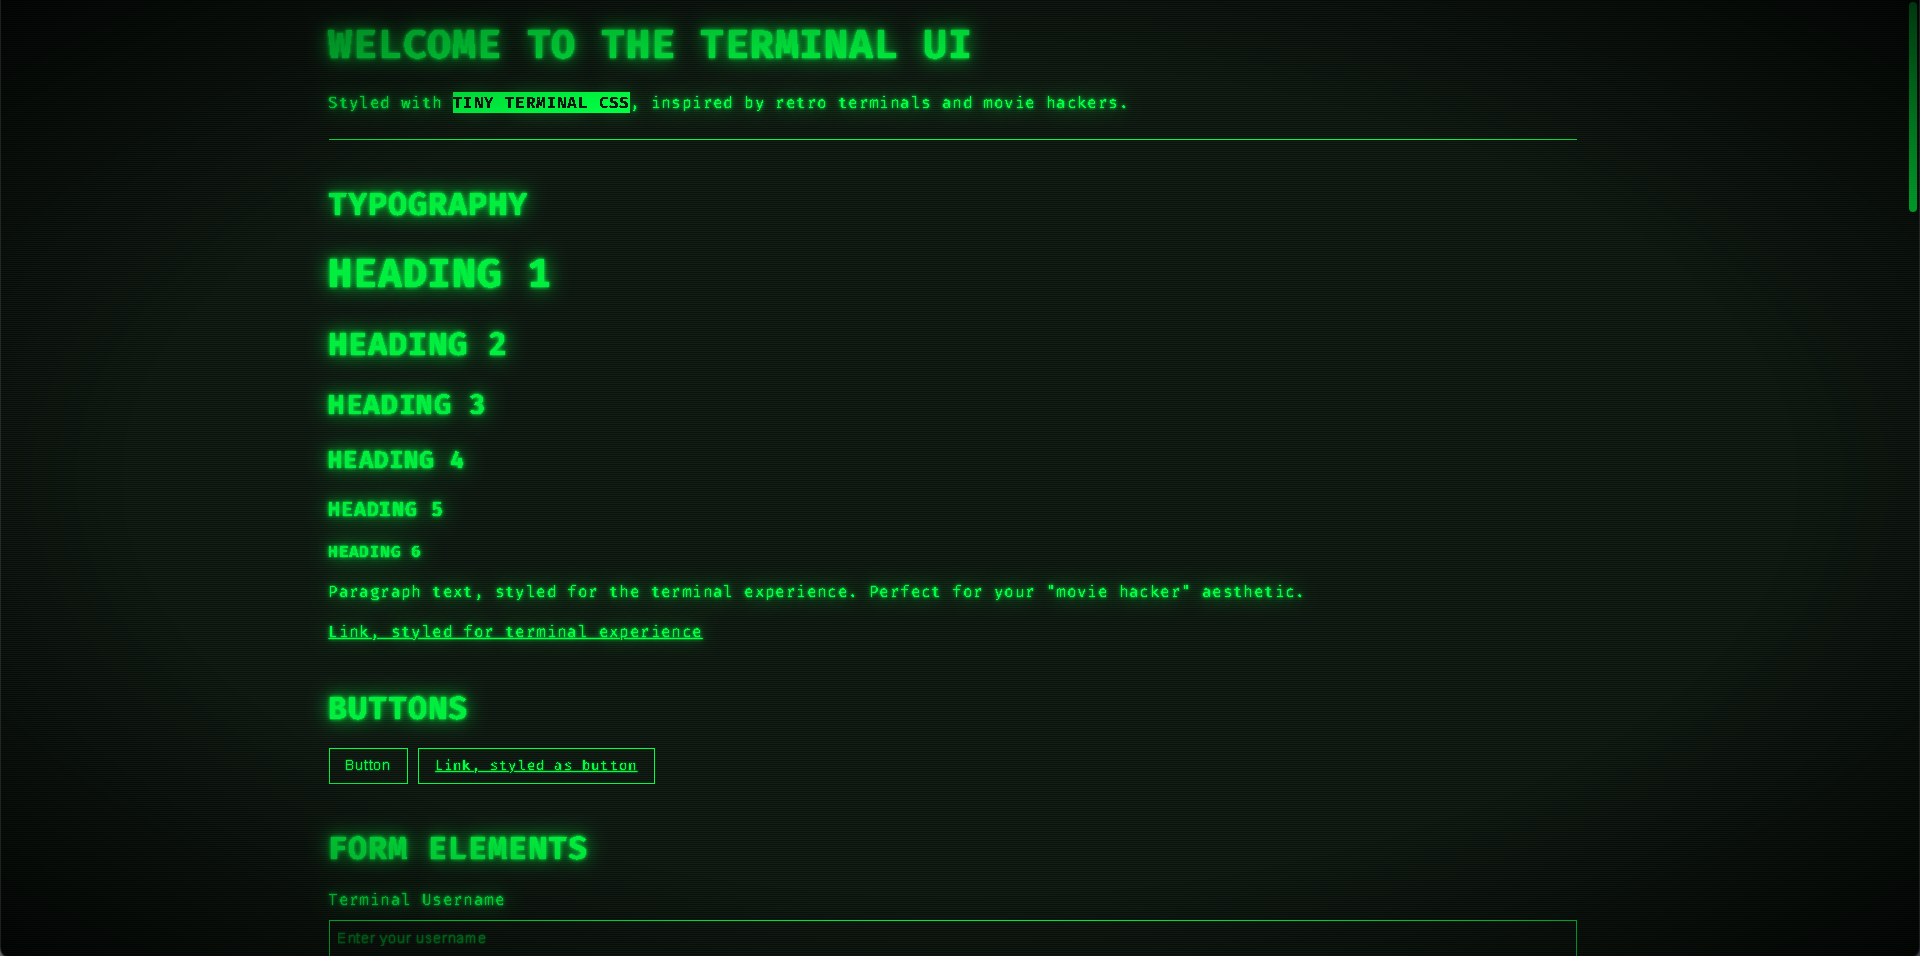
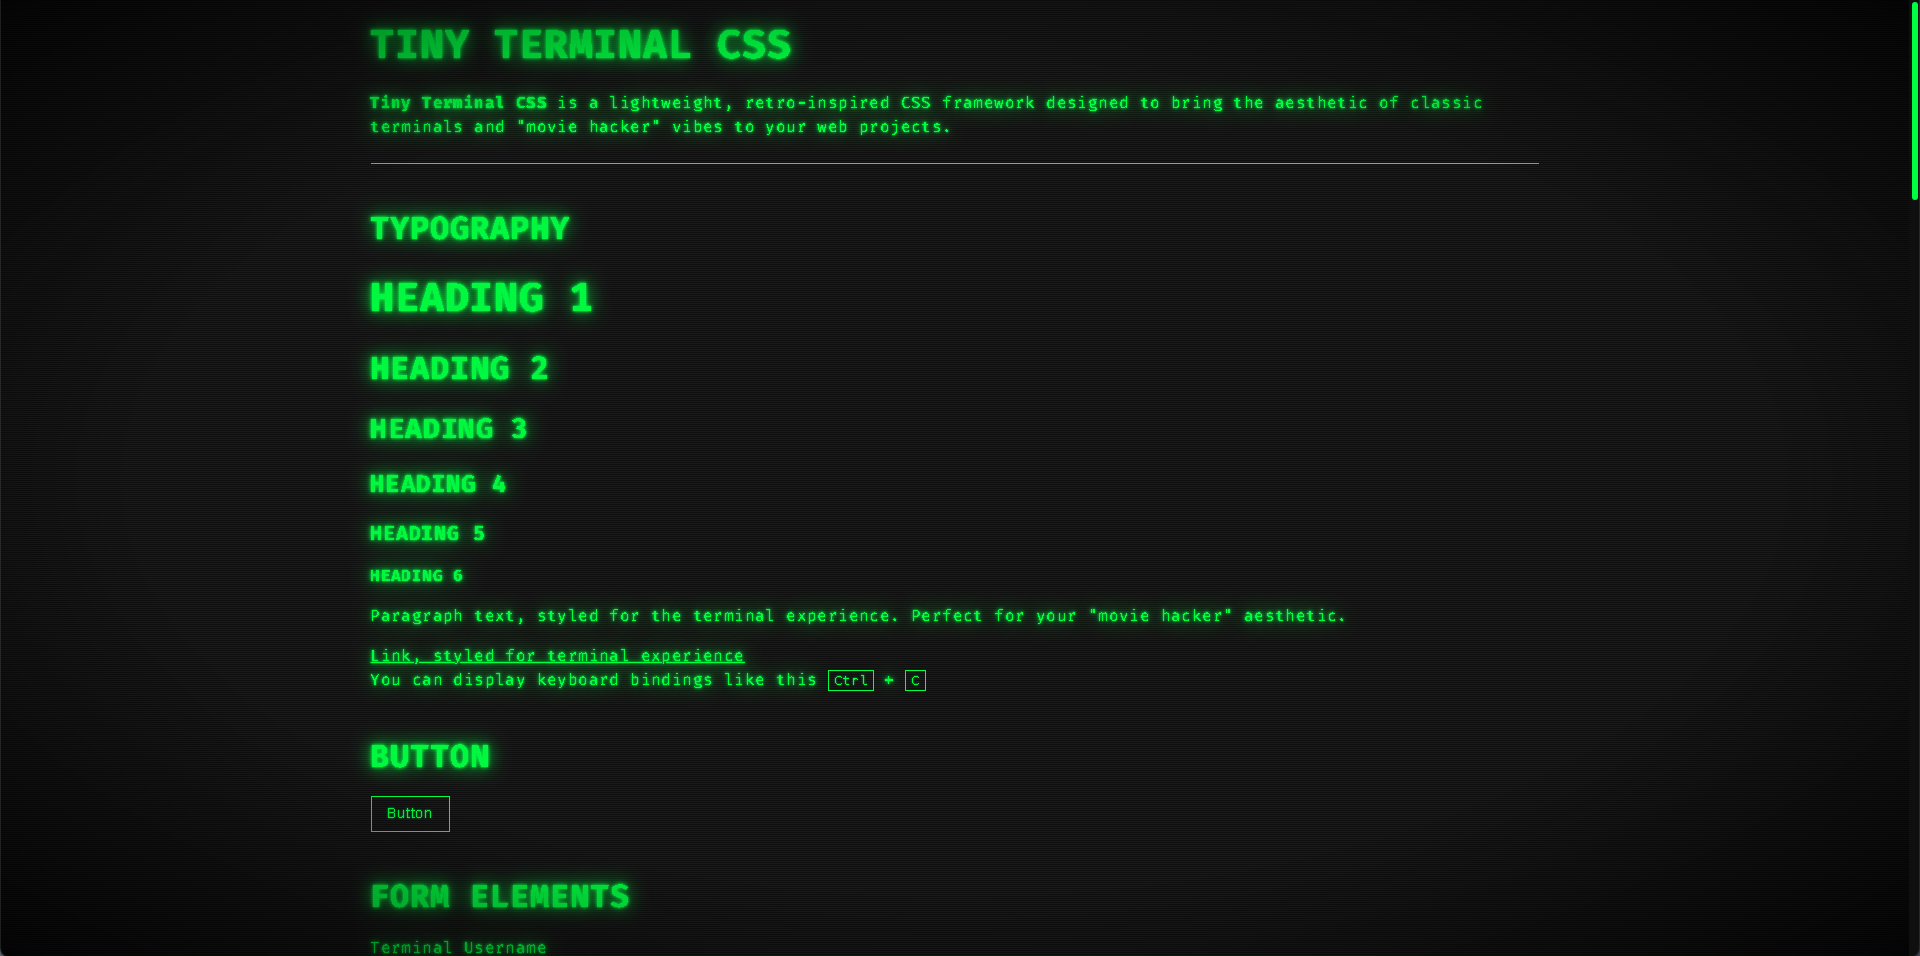
Remove custom classes

Changed region(s): [[0.1562, 0.182, 0.7188, 1.0], [0.1562, 0.0, 0.7812, 0.1517], [0.9688, 0.0, 1.0, 0.2123]]

diff --git a/tiny-terminal.css b/tiny-terminal.css
@@ -9,7 +9,7 @@
     --text-color: var(--primary-color);
     --grid-gap: 2.5rem;
     --grid-padding: 1rem;
-    --max-width: 1280px;
+    --max-width: 1200px;
 }
 
 * {
@@ -39,10 +39,6 @@
 html {
     scrollbar-color: var(--primary-color) var(--background-color); 
     scrollbar-width: thin; 
-}
-
-/* Terminal UI Styles */
-html, body {
     background: var(--background-color);
     color: var(--text-color);
     font-family: var(--font-family);
@@ -60,7 +56,7 @@ html, body {
 }
 
 /* Vignette for Screen Curve */
-body::before {
+html::before {
     content: "";
     position: fixed;
     top: 0; left: 0; right: 0; bottom: 0;
@@ -70,7 +66,7 @@ body::before {
 }
 
 /* Scanlines */
-body::after {
+html::after {
     content: "";
     position: fixed;
     top: 0; left: 0; right: 0; bottom: 0;
@@ -84,6 +80,14 @@ body::after {
     );
     z-index: 998;
 }
+
+body {
+    width: 100%;
+    max-width: var(--max-width);
+    margin: 0 auto;
+    padding: var(--grid-padding);
+}
+
 
 @keyframes flicker {
     0%, 10%, 20%, 30%, 40%, 50%, 60%, 70%, 80%, 90%, 100% { opacity: 1; }
@@ -104,7 +108,6 @@ h1, h2, h3, h4, h5, h6 {
     text-transform: uppercase;
     animation: flicker 1.5s infinite alternate;
 }
-
 
 h1 {
     font-size: 2.5rem; 
@@ -164,7 +167,7 @@ a:focus-visible {
 }
 
 /* Buttons */
-button, .button {
+button {
     display: inline-block;
     padding: 0.4rem 1rem;
     background: transparent;
@@ -176,13 +179,13 @@ button, .button {
     font-size: 0.875rem
 }
 
-button:hover, .button:hover {
+button:hover {
     background: var(--secondary-color);
     color: var(--background-color);
     box-shadow: 0 0 10px var(--primary-color);
 }
 
-button:focus-visible, .button:focus-visible {
+button:focus-visible {
     outline: 1px solid var(--primary-color);
     box-shadow: 0 0 8px var(--primary-color);
 }
@@ -405,10 +408,3 @@ details[open] summary {
     border-bottom: 1px solid var(--primary-color);
 }
 
-/* Grid System */
-.container {
-    width: 100%;
-    max-width: var(--max-width);
-    margin: 0 auto;
-    padding: var(--grid-padding);
-}

diff --git a/index.html b/index.html
@@ -31,9 +31,8 @@
             </section>
 
             <section>
-                <h2>Buttons</h2>
+                <h2>Button</h2>
                 <button>Button</button>
-                <a class="button" href="#">Link, styled as button</a>
             </section>
 
             <section>

diff --git a/README.md b/README.md
@@ -1,8 +1,8 @@
 # Tiny Terminal CSS
 
-**Tiny Terminal CSS** is a lightweight, retro-inspired CSS framework designed to bring the aesthetic of classic terminals and "movie hacker" vibes to your web projects. Perfect for developers who love the nostalgic glow of green text on a dark background.
+**Tiny Terminal CSS** is a lightweight, retro-inspired CSS framework designed to bring the aesthetic of classic terminals and "movie hacker" vibes to your web projects. 
 
-Inspired by the simplicity of semantic HTML and the timeless charm of terminal UIs, as well as the bold design of [Tiny Brutalism CSS](https://github.com/pruger/tiny-brutalism-css).
+It focuses on styling semantic HTML elements directly, avoiding the use of custom classes to ensure simplicity and maintain semantic integrity.
 
 **No frameworks. No dependencies. Just pure CSS.**
 
@@ -36,7 +36,7 @@ Copy the contents of tiny-terminal.css and paste it into your project's CSS file
 
 ## Usage
 
-Tiny Terminal CSS works seamlessly with standard HTML elements. No additional classes are required for basic styling.
+Tiny Terminal CSS works seamlessly with standard HTML elements. No additional classes are required or used.
 
 Example:
 
